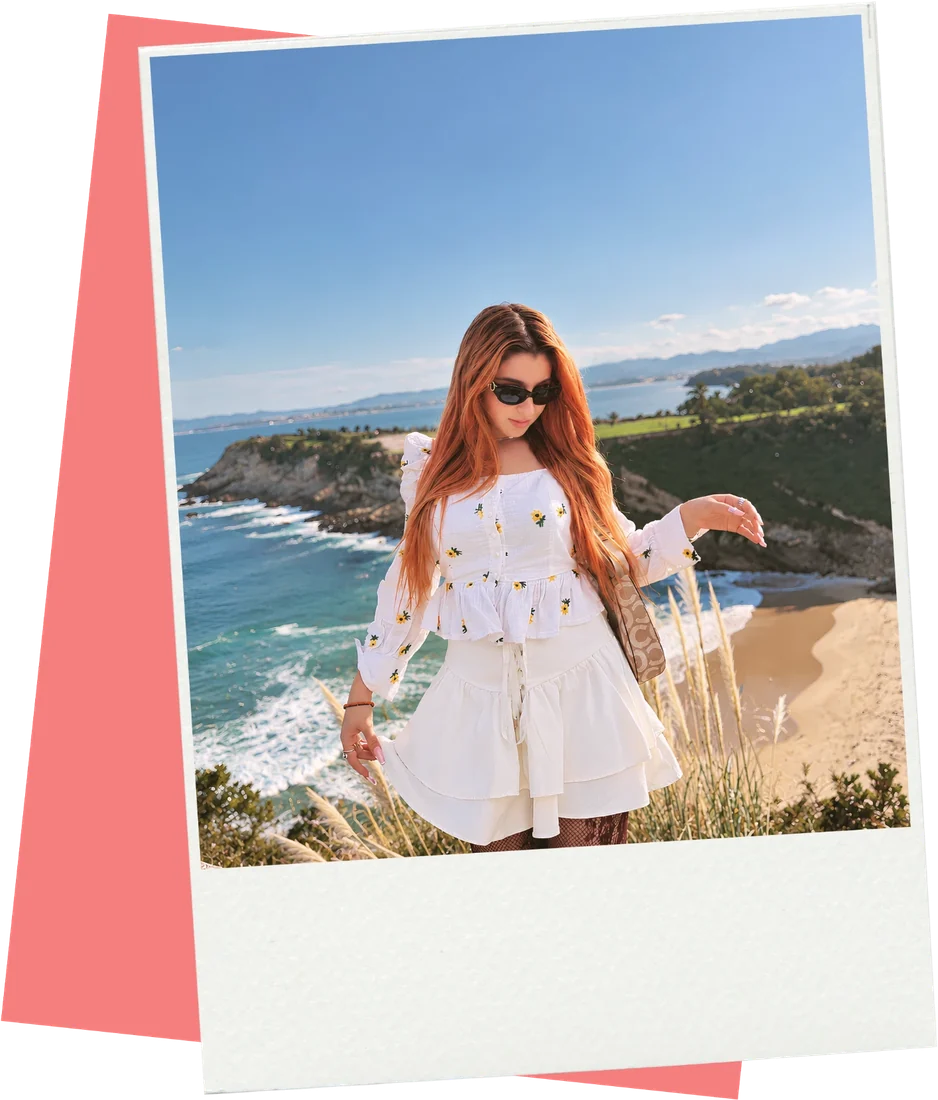
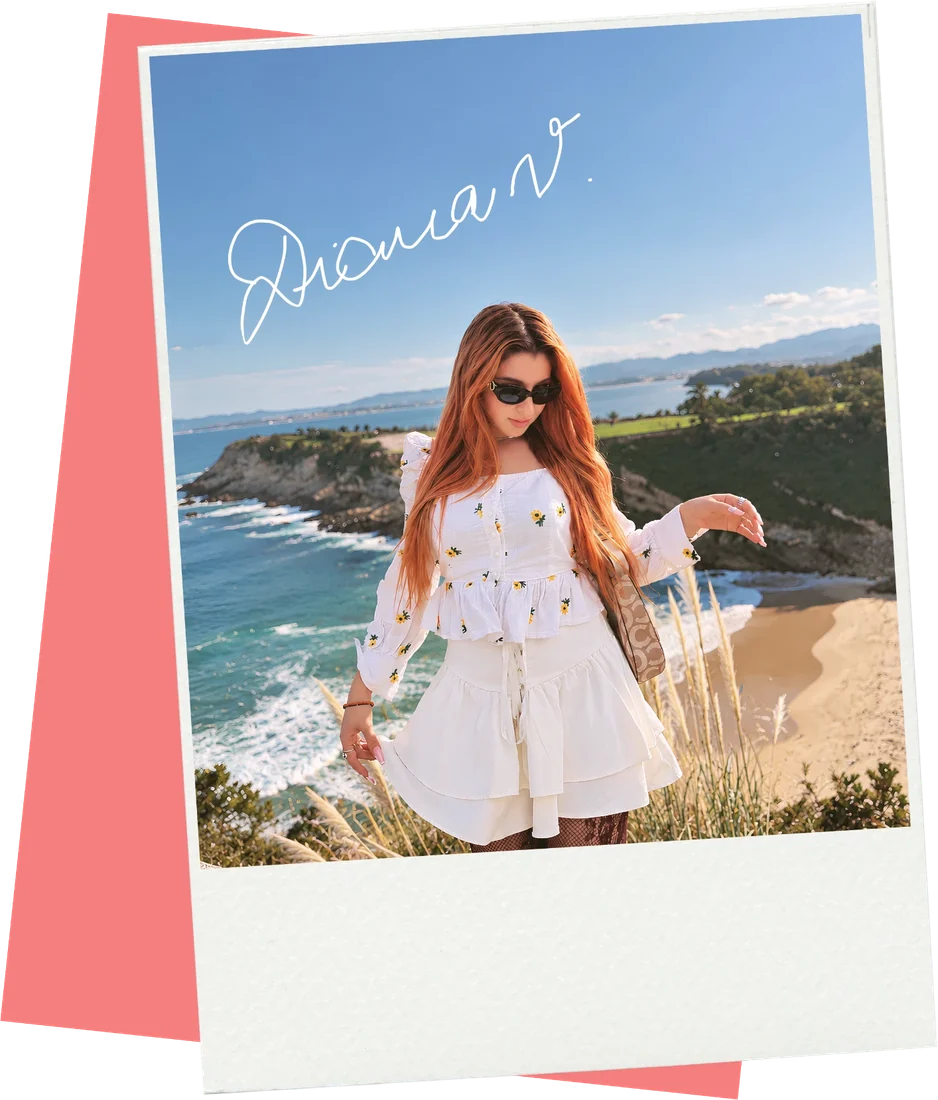
Use the signed polaroid and drop the Diana text caption
Swap in Diana's polaroid with her own handwritten signature on the sky
and remove the typed Diana script that sat over the print, since the
signature reads more naturally.

Claude-Session: https://claude.ai/code/session_01MojWS2PaHbmFcBdXDkzyEs

diff --git a/src/components/pages/home.tsx b/src/components/pages/home.tsx
@@ -187,8 +187,6 @@ export function HomePage() {
         <div className="grid gap-12 md:grid-cols-12 md:items-center">
           <Reveal className="relative md:col-span-5">
             <Pic k="portrait-polaroid" alt={h.portraitAlt} className="h-auto" sizes="(min-width: 768px) 40vw, 100vw" />
-            {/* Written on the polaroid's white strip, tilted with the print. */}
-            <p className="font-display absolute top-[77%] left-[26%] w-[64%] rotate-[-3deg] text-center text-5xl text-accent italic sm:text-6xl md:text-[clamp(3rem,5vw,4.5rem)]">Diana</p>
           </Reveal>
           <div className="md:col-span-6 md:col-start-7">
             <Eyebrow n="04">{h.about}</Eyebrow>
